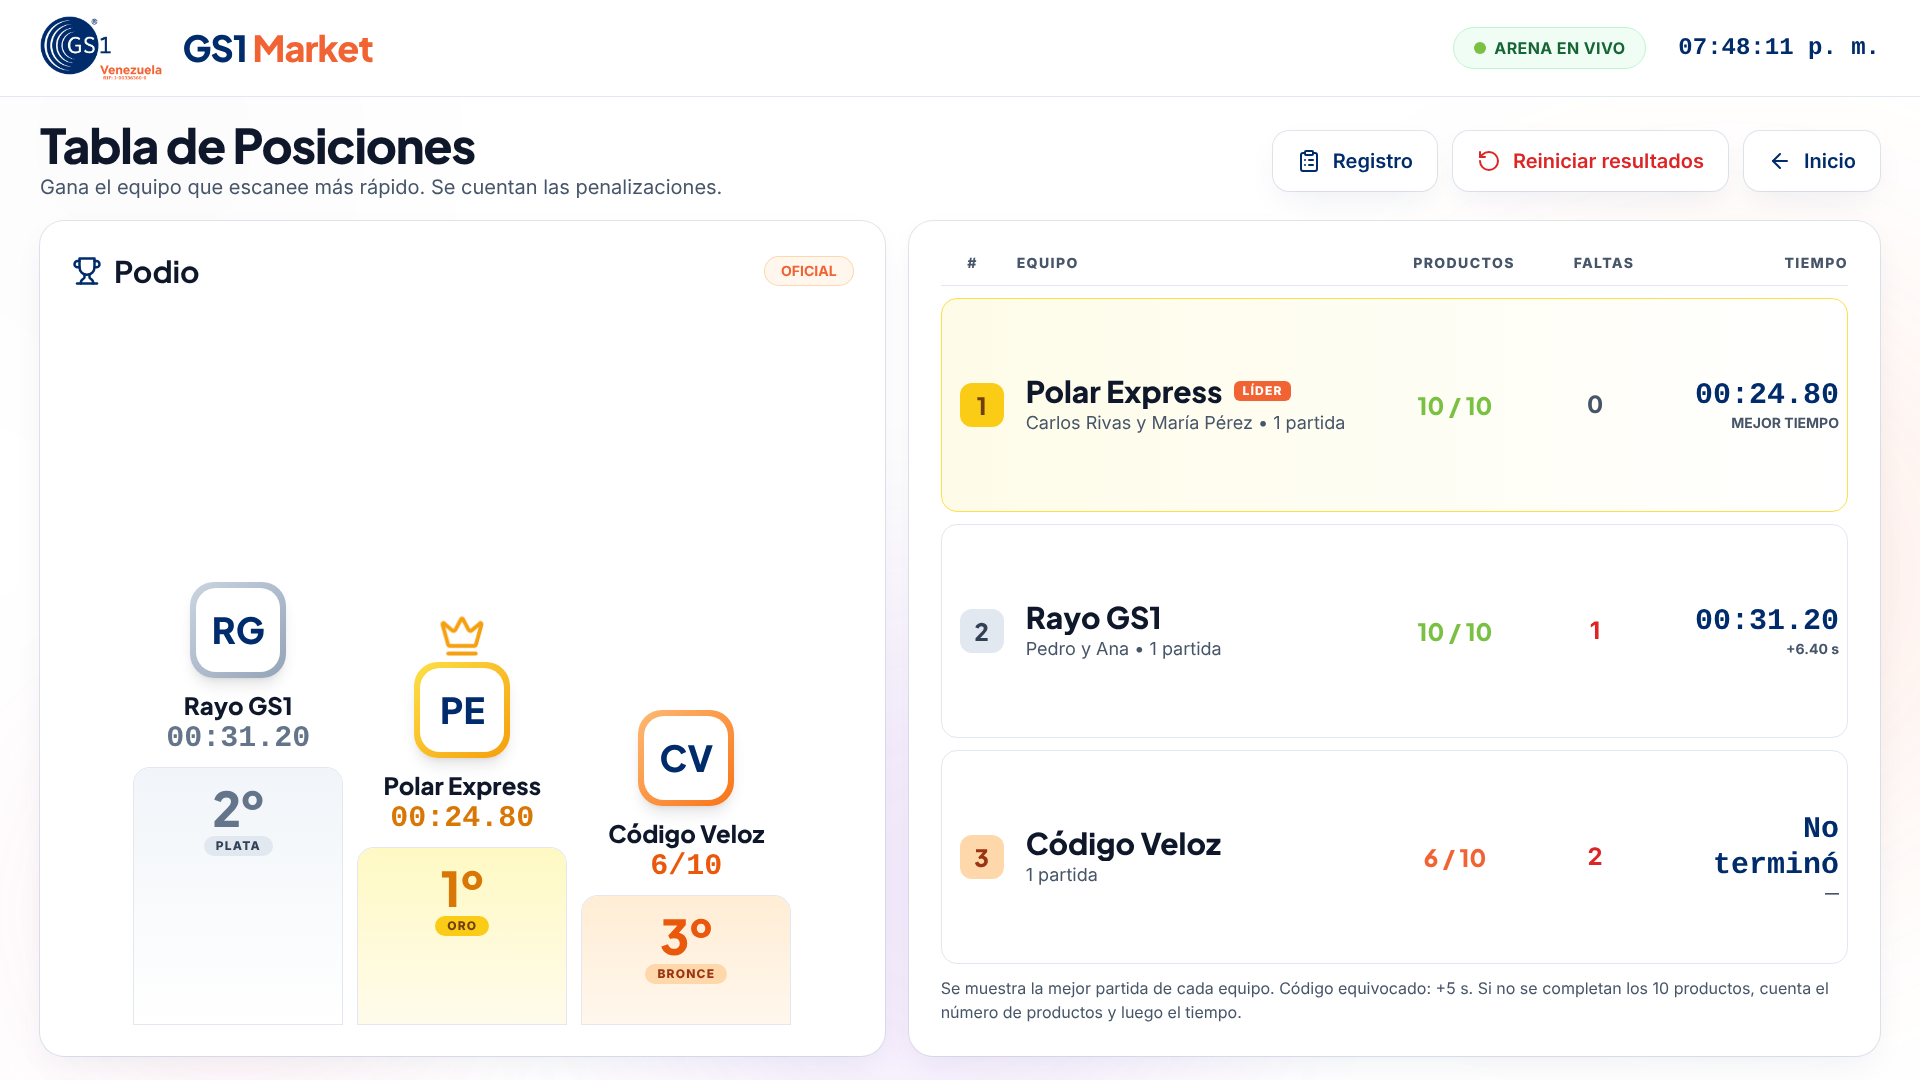
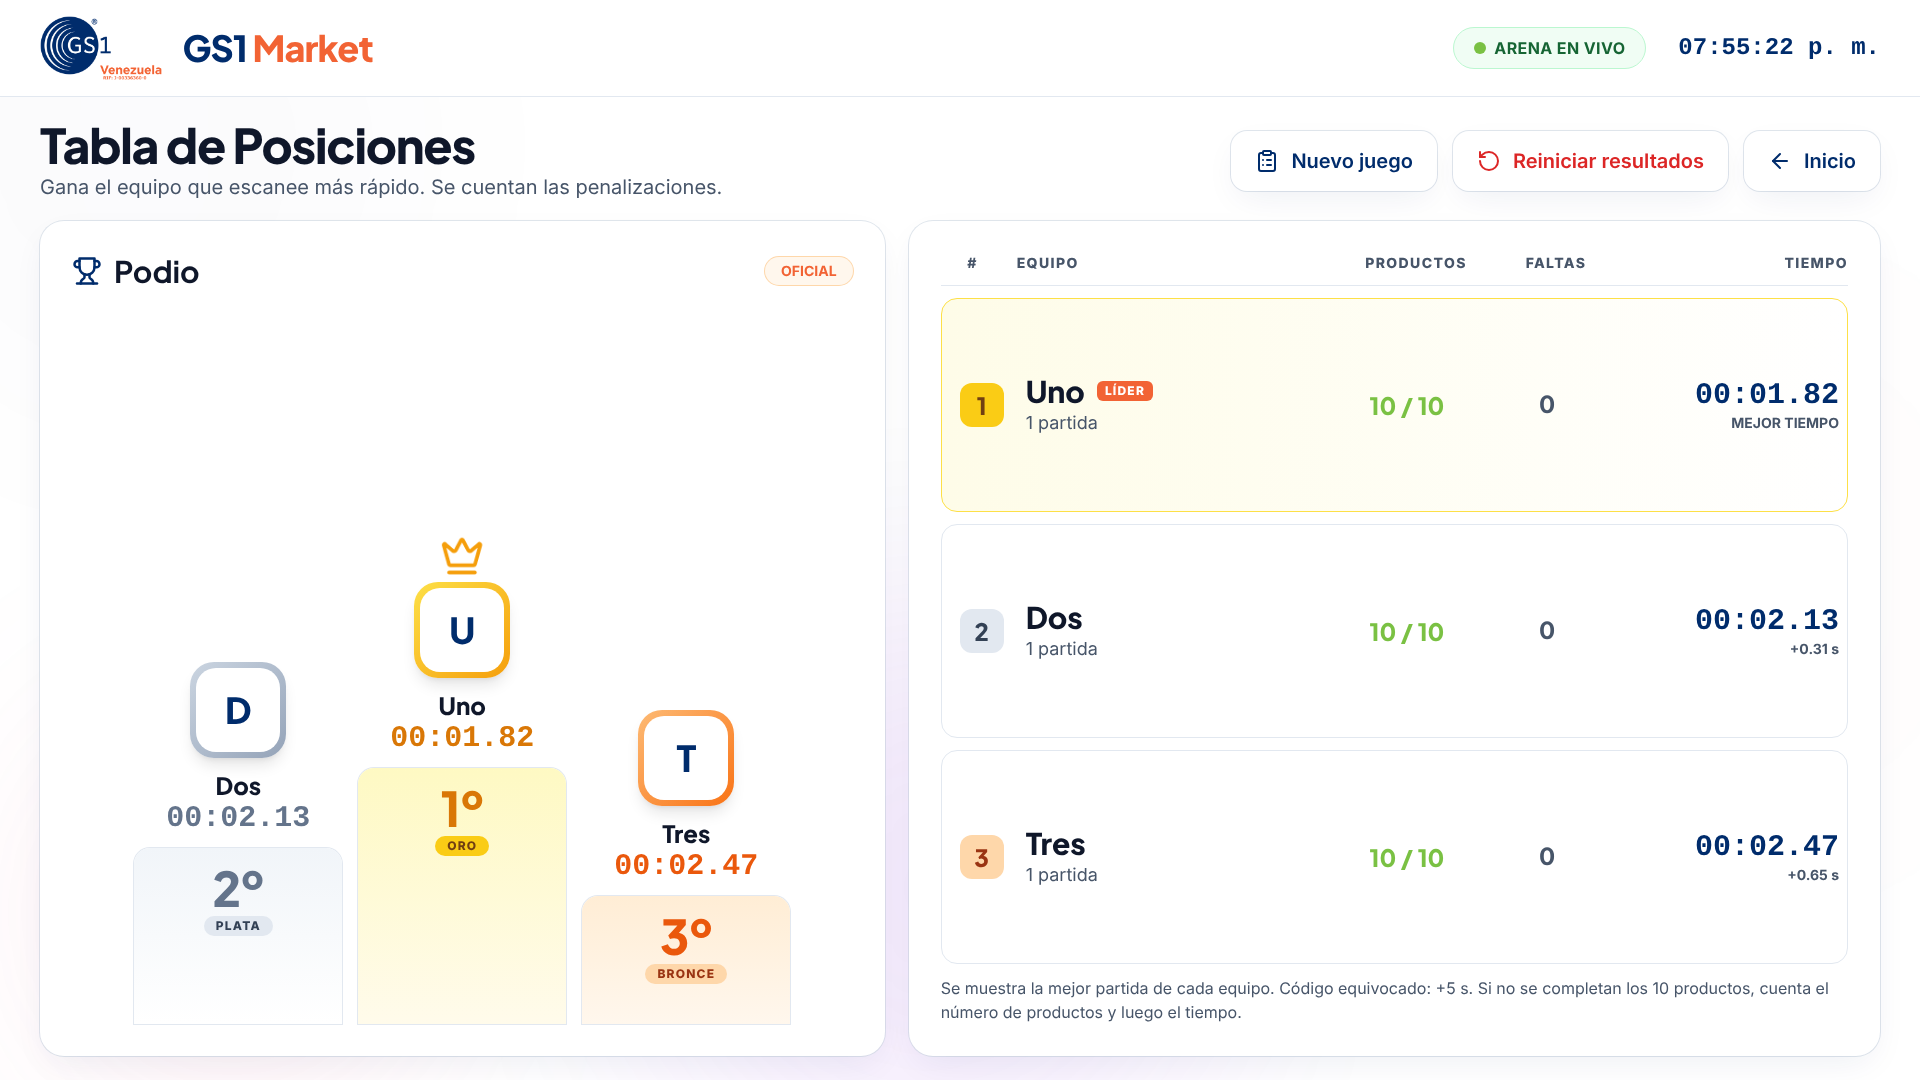
Fix podium heights; reset game after completion; cancel resets whole game
Claude-Session: https://claude.ai/code/session_01TU2Uo17LwJGffbR15ov3Le

diff --git a/gs1-market/src/App.tsx b/gs1-market/src/App.tsx
@@ -23,6 +23,10 @@ export function App() {
   const [queue, setQueue] = useState<string[]>([]);
   const [queueIndex, setQueueIndex] = useState(0);
   const home = () => setScreen('home');
+  // Un juego terminado no se puede repetir con los mismos equipos: el nuevo juego empieza desde cero
+  const newGameIfCompleted = () => {
+    if (data.completed) update(() => ({ teams: [], results: [], completed: false }));
+  };
   const onFinish = useCallback((result: GameResult) => update((d) => ({ ...d, results: [...d.results, result] })), [update]);
   const currentTeam = data.teams.find((t) => t.id === currentTeamId);
   const byBox = [...data.teams].sort((a, b) => a.box - b.box);
@@ -53,7 +57,7 @@ export function App() {
       <Stage>
         <Header />
         {!loaded ? null : screen === 'home' ? (
-          <HomeScreen data={data} onStart={() => setScreen('register')} onRecords={() => setScreen('leaderboard')} />
+          <HomeScreen data={data} onStart={() => { newGameIfCompleted(); setScreen('register'); }} onRecords={() => setScreen('leaderboard')} />
         ) : screen === 'register' ? (
           <RegisterScreen
           data={data}
@@ -72,7 +76,13 @@ export function App() {
             turn={{ current: queueIndex + 1, total: queue.length }}
             nextTeam={nextTeam}
             onFinish={onFinish}
-            onBack={() => setScreen('register')}
+            onBack={() => {
+              // Cancelar la partida cancela el juego: se borran equipos y resultados y se vuelve al inicio
+              update(() => ({ teams: [], results: [], completed: false }));
+              setQueue([]);
+              setCurrentTeamId(null);
+              setScreen('home');
+            }}
             onNext={() => {
               setQueueIndex(queueIndex + 1);
               beginGame(queue[queueIndex + 1]);
@@ -81,7 +91,10 @@ export function App() {
               const pending = tiebreakPending(data.results);
               startQueue(byBox.filter((t) => pending?.teamIds.includes(t.id)).map((t) => t.id));
             }}
-            onLeaderboard={() => setScreen('leaderboard')}
+            onLeaderboard={() => {
+              update((d) => ({ ...d, completed: true }));
+              setScreen('leaderboard');
+            }}
           />
         ) : (
           <Placeholder title="Desafío en Vivo" onBack={() => setScreen('register')} />
@@ -89,10 +102,14 @@ export function App() {
 ) : (
           <LeaderboardScreen
             data={data}
+            completed={!!data.completed}
             onHome={home}
-            onRegister={() => setScreen('register')}
+            onRegister={() => {
+              newGameIfCompleted();
+              setScreen('register');
+            }}
             onTiebreak={startGame}
-            onResetResults={() => update((d) => ({ ...d, results: [] }))}
+            onResetResults={() => update((d) => ({ ...d, results: [], completed: false }))}
           />
         )}
       </Stage>

diff --git a/gs1-market/src/screens/LeaderboardScreen.tsx b/gs1-market/src/screens/LeaderboardScreen.tsx
@@ -8,6 +8,8 @@ import type { AppData, GameResult } from '../lib/types';
 interface Props {
   data: AppData;
   onHome: () => void;
+  /** true si el juego ya terminó: el botón pasa a "Nuevo juego" y empieza desde cero */
+  completed: boolean;
   onRegister: () => void;
   onTiebreak: () => void;
   onResetResults: () => void;
@@ -21,7 +23,7 @@ const MEDAL = [
 
 const initials = (name: string) => name.split(/\s+/).filter(Boolean).slice(0, 2).map((w) => w[0]).join('').toUpperCase();
 
-export function LeaderboardScreen({ data, onHome, onRegister, onTiebreak, onResetResults }: Props) {
+export function LeaderboardScreen({ data, completed, onHome, onRegister, onTiebreak, onResetResults }: Props) {
   const [confirmReset, setConfirmReset] = useState(false);
   const ranked = ranking(data.results);
   const leader = ranked[0];
@@ -40,7 +42,7 @@ export function LeaderboardScreen({ data, onHome, onRegister, onTiebreak, onRese
           <p className="mt-1 text-xl text-on-surface-variant">Gana el equipo que escanee más rápido. Se cuentan las penalizaciones.</p>
         </div>
         <div className="flex items-center gap-4">
-          <button onClick={onRegister} className="card-glow flex items-center gap-3 rounded-2xl bg-white px-6 py-4 text-xl font-semibold text-gs1-blue transition hover:bg-slate-50 active:translate-y-0.5"><ClipboardList size={24} /> Registro</button>
+          <button onClick={onRegister} className="card-glow flex items-center gap-3 rounded-2xl bg-white px-6 py-4 text-xl font-semibold text-gs1-blue transition hover:bg-slate-50 active:translate-y-0.5"><ClipboardList size={24} /> {completed ? 'Nuevo juego' : 'Registro'}</button>
           <button onClick={() => setConfirmReset(true)} disabled={data.results.length === 0} className="card-glow flex items-center gap-3 rounded-2xl bg-white px-6 py-4 text-xl font-semibold text-red-600 transition enabled:hover:bg-red-50 enabled:active:translate-y-0.5 disabled:opacity-40"><RotateCcw size={24} /> Reiniciar resultados</button>
           <button onClick={onHome} className="card-glow flex items-center gap-3 rounded-2xl bg-white px-6 py-4 text-xl font-semibold text-gs1-blue transition hover:bg-slate-50 active:translate-y-0.5"><ArrowLeft size={24} /> Inicio</button>
         </div>
@@ -72,7 +74,8 @@ export function LeaderboardScreen({ data, onHome, onRegister, onTiebreak, onRese
                 if (!slot) return <div key={i} className="w-48" />;
                 const { r, place } = slot;
                 const m = MEDAL[place];
-                const heights = ['h-44', 'h-64', 'h-32'];
+                // altura por puesto: oro (el más alto), plata, bronce
+                const heights = ['h-64', 'h-44', 'h-32'];
                 return (
                   <div key={r.teamId} className="flex w-52 flex-col items-center">
                     {place === 0 && <Crown size={44} className="pop mb-1 text-amber-500" />}

diff --git a/gs1-market/src/screens/ChallengeScreen.tsx b/gs1-market/src/screens/ChallengeScreen.tsx
@@ -251,9 +251,9 @@ export function ChallengeScreen({ team, data, tiebreak, turn, nextTeam, onFinish
           <div className="mt-4 flex items-center justify-between border-t border-slate-200 pt-4">
             {confirmCancel ? (
               <div className="flex w-full items-center gap-3">
-                <span className="flex-1 text-lg font-semibold text-red-700">¿Cancelar la partida? No se guarda.</span>
+                <span className="flex-1 text-lg font-semibold text-red-700">¿Cancelar el juego? Se borran equipos y resultados.</span>
                 <button onClick={() => setConfirmCancel(false)} className="rounded-xl border border-slate-300 px-5 py-2.5 text-lg font-semibold">No</button>
-                <button onClick={onBack} className="rounded-xl bg-red-600 px-5 py-2.5 text-lg font-bold text-white">Sí, cancelar</button>
+                <button onClick={onBack} className="rounded-xl bg-red-600 px-5 py-2.5 text-lg font-bold text-white">Sí, cancelar todo</button>
               </div>
             ) : (
               <>

diff --git a/gs1-market/src/screens/HomeScreen.tsx b/gs1-market/src/screens/HomeScreen.tsx
@@ -16,8 +16,8 @@ interface Props {
 
 export function HomeScreen({ data, onStart, onRecords }: Props) {
   const [rulesOpen, setRulesOpen] = useState(false);
-  // Mientras no haya resultados reales se muestran datos de ejemplo
-  const results = data.results.length === 0 && SHOW_DEMO_WHEN_EMPTY ? DEMO_RESULTS : data.results;
+  // Sin resultados, o con el juego ya terminado (empieza uno nuevo desde cero), se muestran datos de ejemplo
+  const results = (data.results.length === 0 || data.completed) && SHOW_DEMO_WHEN_EMPTY ? DEMO_RESULTS : data.results;
   const top3 = useMemo(() => ranking(results).slice(0, 5), [results]);
   const best = top3[0];
   const record = best?.timeMs;

diff --git a/gs1-market/src/lib/types.ts b/gs1-market/src/lib/types.ts
@@ -29,4 +29,6 @@ export interface GameResult {
 export interface AppData {
   teams: Team[];
   results: GameResult[];
+  /** el juego terminó (se llegó a la tabla final): el siguiente juego empieza desde cero */
+  completed?: boolean;
 }

diff --git a/docs/informes/04-pantalla-posiciones.md b/docs/informes/04-pantalla-posiciones.md
@@ -23,3 +23,12 @@ Referencia: `gs1_market_tabla_de_posiciones_tv_interactiva`, adaptada a las regl
 
 ## Nota
 - El Inicio muestra datos de ejemplo mientras no hay resultados reales; esta tabla muestra el estado vacío real (no usa datos de ejemplo).
+
+## Cambios tras la revisión del usuario
+- **Podio corregido**: el bloque del oro es el más alto (antes estaba invertido con la plata). Captura `04-posiciones.png` actualizada.
+- **Un juego terminado no se repite**: al llegar a la tabla final (todos jugaron y no hay desempate pendiente) el juego queda marcado como terminado. Al volver al Inicio, el Inicio vuelve a mostrar los **datos de ejemplo** y, al pulsar "¡Comenzar partida!" (o "Nuevo juego" en la tabla), **se borran equipos y resultados** y se empieza desde cero con la ventana de crear equipo. Hasta entonces la tabla final sigue consultable ("Ver Tabla de Posiciones").
+- **Cancelar partida (en el Desafío)** cancela el juego completo: pide confirmación ("¿Cancelar el juego? Se borran equipos y resultados."), borra equipos y resultados y vuelve al Inicio, listo para empezar de cero.
+- "Reiniciar resultados" (en la tabla) sigue borrando solo los tiempos y conserva los equipos.
+
+## Verificación de estos cambios
+Prueba en navegador: 3 equipos juegan y llegan a la tabla (botón "Nuevo juego", podio con alturas 176/256/128 px = plata/oro/bronce), "Inicio" muestra los datos de ejemplo, "Comenzar" abre la ventana de crear equipo con el estado `{"teams":[],"results":[],"completed":false}`. Cancelar a mitad de la primera partida: borra todo y vuelve al Inicio. Sin errores de consola.

diff --git a/docs/PLAN.md b/docs/PLAN.md
@@ -69,6 +69,8 @@ Podio Top 3, tabla de equipos, filtros, récords. Se alimenta de las partidas fi
 ## Flujo de juego (confirmado)
 Registro (crear equipos) -> **INICIAR JUEGO** -> los equipos juegan en cola por orden de caja, sin volver al Registro ("Siguiente" tras cada uno) -> al terminar el último, **Tabla de posiciones**. Empate en el 1er puesto: ronda de desempate solo entre los empatados. En la pista del Desafío se muestra la **foto** del producto, no el nombre (fotos en `src/assets/products/`).
 
+- **Un juego terminado no se repite con los mismos equipos**: al terminar y volver a empezar se parte de cero (sin equipos ni resultados) y el Inicio muestra datos de ejemplo. **Cancelar partida** (Desafío) cancela el juego completo y lo reinicia.
+
 ## Decisiones adicionales (confirmadas)
 - Si se llega a 1:30 sin terminar: la partida se corta; se clasifica por **productos escaneados** (más es mejor) y luego por tiempo.
 - Las **3 cajas existen de antemano** y se rellenan. Puede haber 1, 2 o 3 cajas activas y 1 o 2 jugadores por caja (mínimo 1 jugador, máximo 2).

diff --git a/docs/PROGRESO.md b/docs/PROGRESO.md
@@ -21,3 +21,4 @@ Comandos: `cd gs1-market && npm install && npm run dev` (navegador), `npm test`,
 - Cambio de flujo: botón único INICIAR JUEGO, cola de equipos por orden de caja, "Siguiente" sin volver al Registro, Tabla al final. Pista con foto (pendientes las fotos del usuario, carpeta `gs1-market/src/assets/products/`).
 - Fotos de productos recibidas: 01-05 (leche, mantequilla, pasta, cereal, aceite) en `gs1-market/src/assets/products/` (SVG). Faltan 06-10 (usan icono+nombre provisional). Las SVG traen el nombre impreso en el envase.
 - Fotos de productos 06-10 recibidas: ya están las 10 (SVG) en `gs1-market/src/assets/products/`. Siguiente: pantalla 4 (Tabla de posiciones).
+- Podio corregido (oro más alto). Juego terminado => siguiente juego desde cero (Inicio vuelve a datos de ejemplo). Cancelar partida => cancela el juego completo y vuelve al Inicio.
